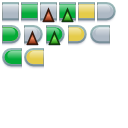
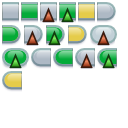
One cell + start target integrated

Changed region(s): [[0.0, 0.1875, 0.9375, 0.7188]]

diff --git a/Android/Slime/src/gamers/associate/Slime/items/custom/StarCounter.java b/Android/Slime/src/gamers/associate/Slime/items/custom/StarCounter.java
@@ -10,9 +10,14 @@ import gamers.associate.Slime.items.base.GameItemCocos;
 import gamers.associate.Slime.items.base.SpriteType;
 
 public class StarCounter extends GameItemCocos {
+	public static String Anim_OneCell_Target_Empty = "control-stars-onecell-empty";
+	public static String Anim_OneCell_Target_Green = "control-stars-onecell-green";
+	
 	public static String Anim_Start_Empty = "control-stars-start-empty";
 	public static String Anim_Start_Green = "control-stars-start-green";
 	public static String Anim_Start_Gold = "control-stars-start-yellow";
+	public static String Anim_Start_Target_Empty = "control-stars-start-target-empty";
+	public static String Anim_Start_Target_Green = "control-stars-start-target-green";
 	
 	public static String Anim_Cell_Empty = "control-stars-cell-empty";
 	public static String Anim_Cell_Green = "control-stars-cell-green";
@@ -29,19 +34,33 @@ public class StarCounter extends GameItemCocos {
 	public static float Default_Width = 17f;
 	public static float Default_Height = 21f;
 	
+	public static float Default_Width_OneCell = 27f;
+	public static float Default_Height_OneCell = 21f;
+	
 	private StarCounterType counterType;
 	
 	public StarCounter(float x, float y, float width, float height, StarCounterType counterType) {
 		super(x, y, width, height);
 		
+		this.counterType = counterType;
 		this.spriteType = SpriteType.SINGLE_SCALE;		
 		
 		if (width == 0 && height == 0) {
-			this.width = Default_Width;
-			this.height = Default_Height; 
-		}		
-		
-		this.counterType = counterType;
+			if (this.counterType == StarCounterType.OneCell_Target) {
+				
+			} else {
+				this.width = Default_Width_OneCell;
+				this.height = Default_Height_OneCell;
+			}			
+		}						
+	}
+	
+	public static float getOneCellWidthRatio() {
+		return Default_Width_OneCell / Default_Width;
+	}
+	
+	public static float getOneCellHeightRation() {
+		return Default_Height_OneCell / Default_Height;
 	}
 
 	@Override
@@ -60,6 +79,10 @@ public class StarCounter extends GameItemCocos {
 		case Start_Gold:
 		case Start_Green:
 			return Anim_Start_Empty;
+		case Start_Target:
+			return Anim_Start_Target_Empty;
+		case OneCell_Target:
+			return Anim_OneCell_Target_Empty;
 		default:
 			return Anim_Cell_Empty;
 		}
@@ -92,6 +115,12 @@ public class StarCounter extends GameItemCocos {
 				break;
 			case Start_Green:
 				anim = Anim_Start_Green;
+				break;
+			case Start_Target:
+				anim = Anim_Start_Target_Green;
+				break;
+			case OneCell_Target:
+				anim = Anim_OneCell_Target_Green;
 				break;
 			default:
 				anim = Anim_Cell_Green;

diff --git a/Android/Slime/src/gamers/associate/Slime/items/custom/StarCounterFactory.java b/Android/Slime/src/gamers/associate/Slime/items/custom/StarCounterFactory.java
@@ -22,6 +22,10 @@ public class StarCounterFactory extends GameItemCocosFactory<StarCounter> {
 		this.createAnim(StarCounter.Anim_Start_Empty, 1);
 		this.createAnim(StarCounter.Anim_Start_Gold, 1);
 		this.createAnim(StarCounter.Anim_Start_Green, 1);
+		this.createAnim(StarCounter.Anim_Start_Target_Empty, 1);
+		this.createAnim(StarCounter.Anim_Start_Target_Green, 1);
+		this.createAnim(StarCounter.Anim_OneCell_Target_Empty, 1);
+		this.createAnim(StarCounter.Anim_OneCell_Target_Green, 1);
 	}
 
 	@Override
@@ -49,7 +53,11 @@ public class StarCounterFactory extends GameItemCocosFactory<StarCounter> {
 		return this.create(x, y);
 	}
 	
-	public StarCounterType getFromIndicators(int current, int min, int max) {	
+	public StarCounterType getFromIndicators(int current, int min, int max) {
+		if (max == 1) {
+			return StarCounterType.OneCell_Target;
+		}
+		
 		// green
 		if (current < min) {
 			if (current == max) {
@@ -66,6 +74,10 @@ public class StarCounterFactory extends GameItemCocosFactory<StarCounter> {
 		
 		// Target
 		if (current == min) {
+			if (current == 1) {
+				return StarCounterType.Start_Target;
+			}
+			
 			if (current == max) {
 				return StarCounterType.End_Target;
 			}
@@ -91,6 +103,11 @@ public class StarCounterFactory extends GameItemCocosFactory<StarCounter> {
 	
 	public StarCounter create(float x, float y, float width, float height, int current, int min, int max) {
 		StarCounterType cType = this.getFromIndicators(current, min, max);
+		if (cType == StarCounterType.OneCell_Target) {
+			width = width * StarCounter.getOneCellWidthRatio();
+			height = height * StarCounter.getOneCellHeightRation();
+		}
+		
 		return this.create(x, y, width, height, cType);
 	}
 	

diff --git a/Android/Slime/src/gamers/associate/Slime/items/custom/StarCounterType.java b/Android/Slime/src/gamers/associate/Slime/items/custom/StarCounterType.java
@@ -3,10 +3,12 @@ package gamers.associate.Slime.items.custom;
 public enum StarCounterType {
 	Start_Green,
 	Start_Gold,
+	Start_Target,
 	Cell_Green,
 	Cell_Gold,
 	Cell_Target,
 	End_Green,
 	End_Gold,
-	End_Target
+	End_Target,
+	OneCell_Target
 }
